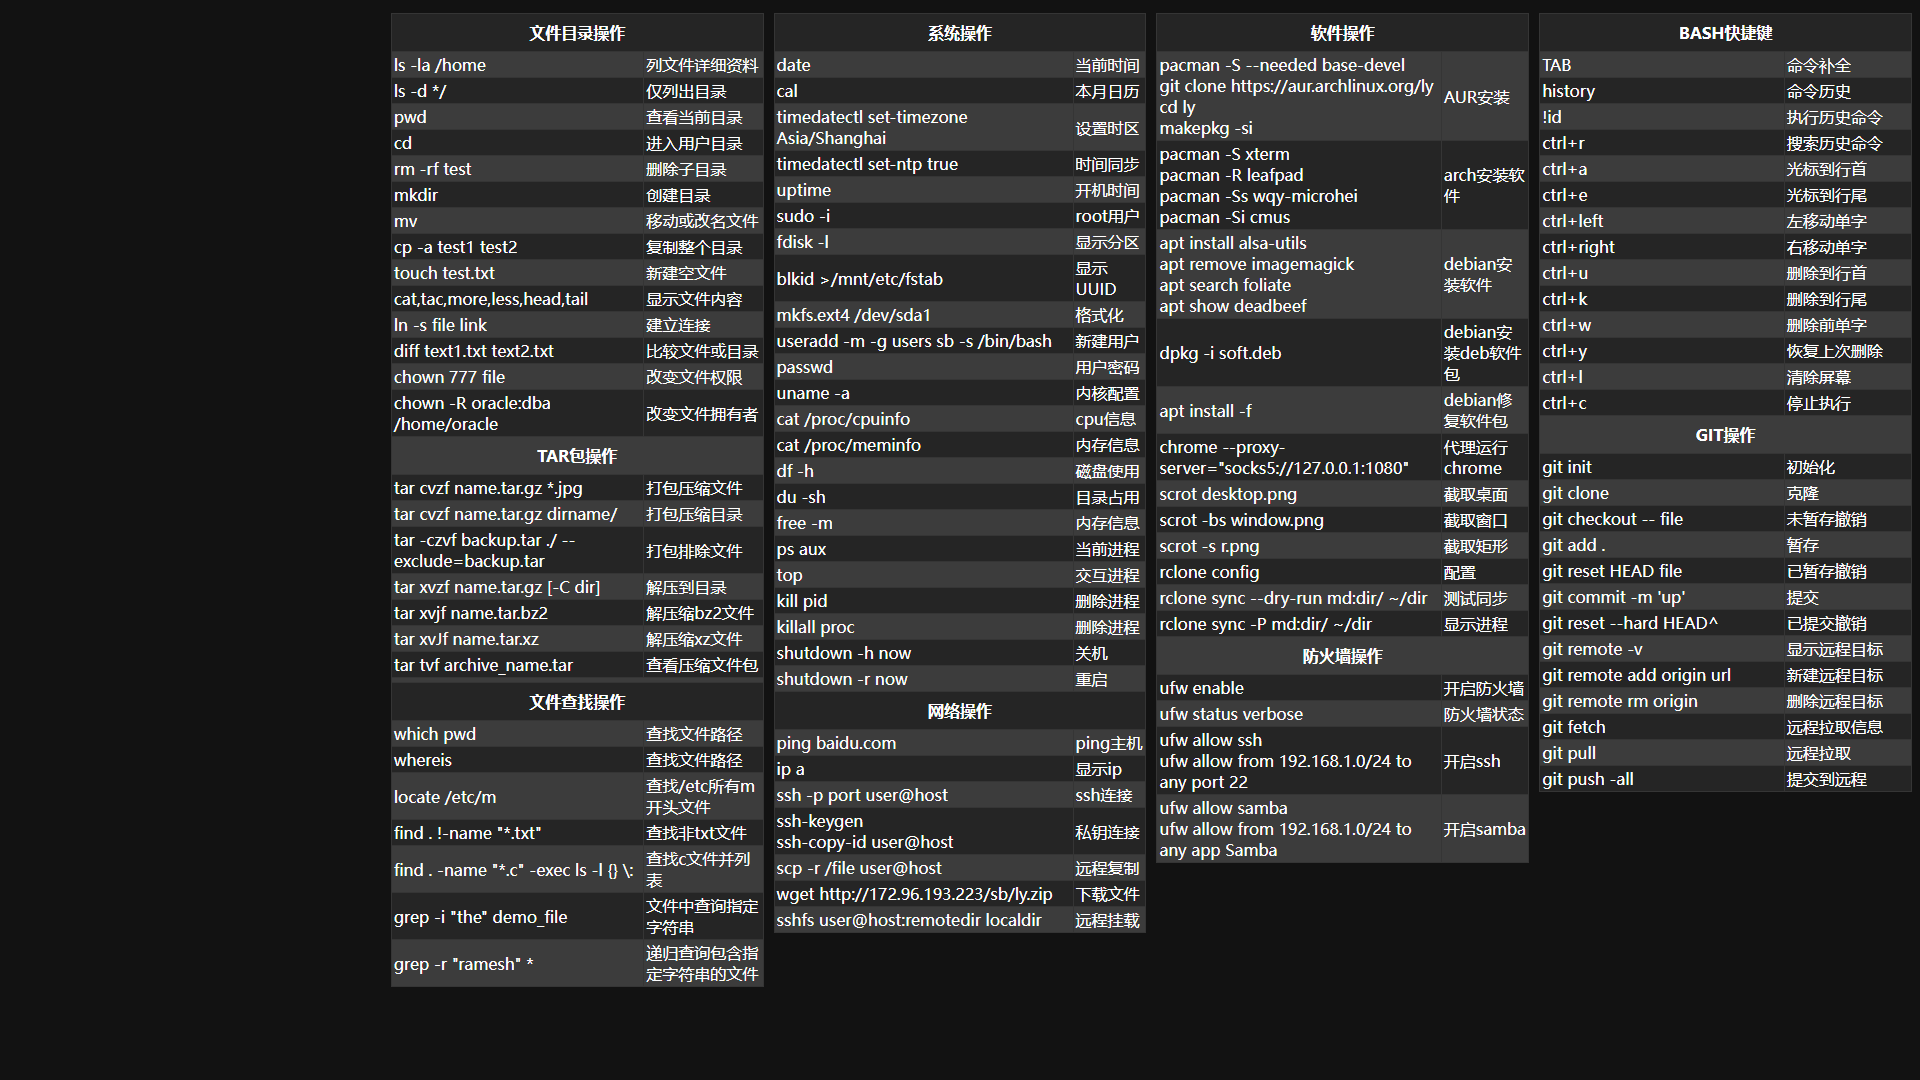
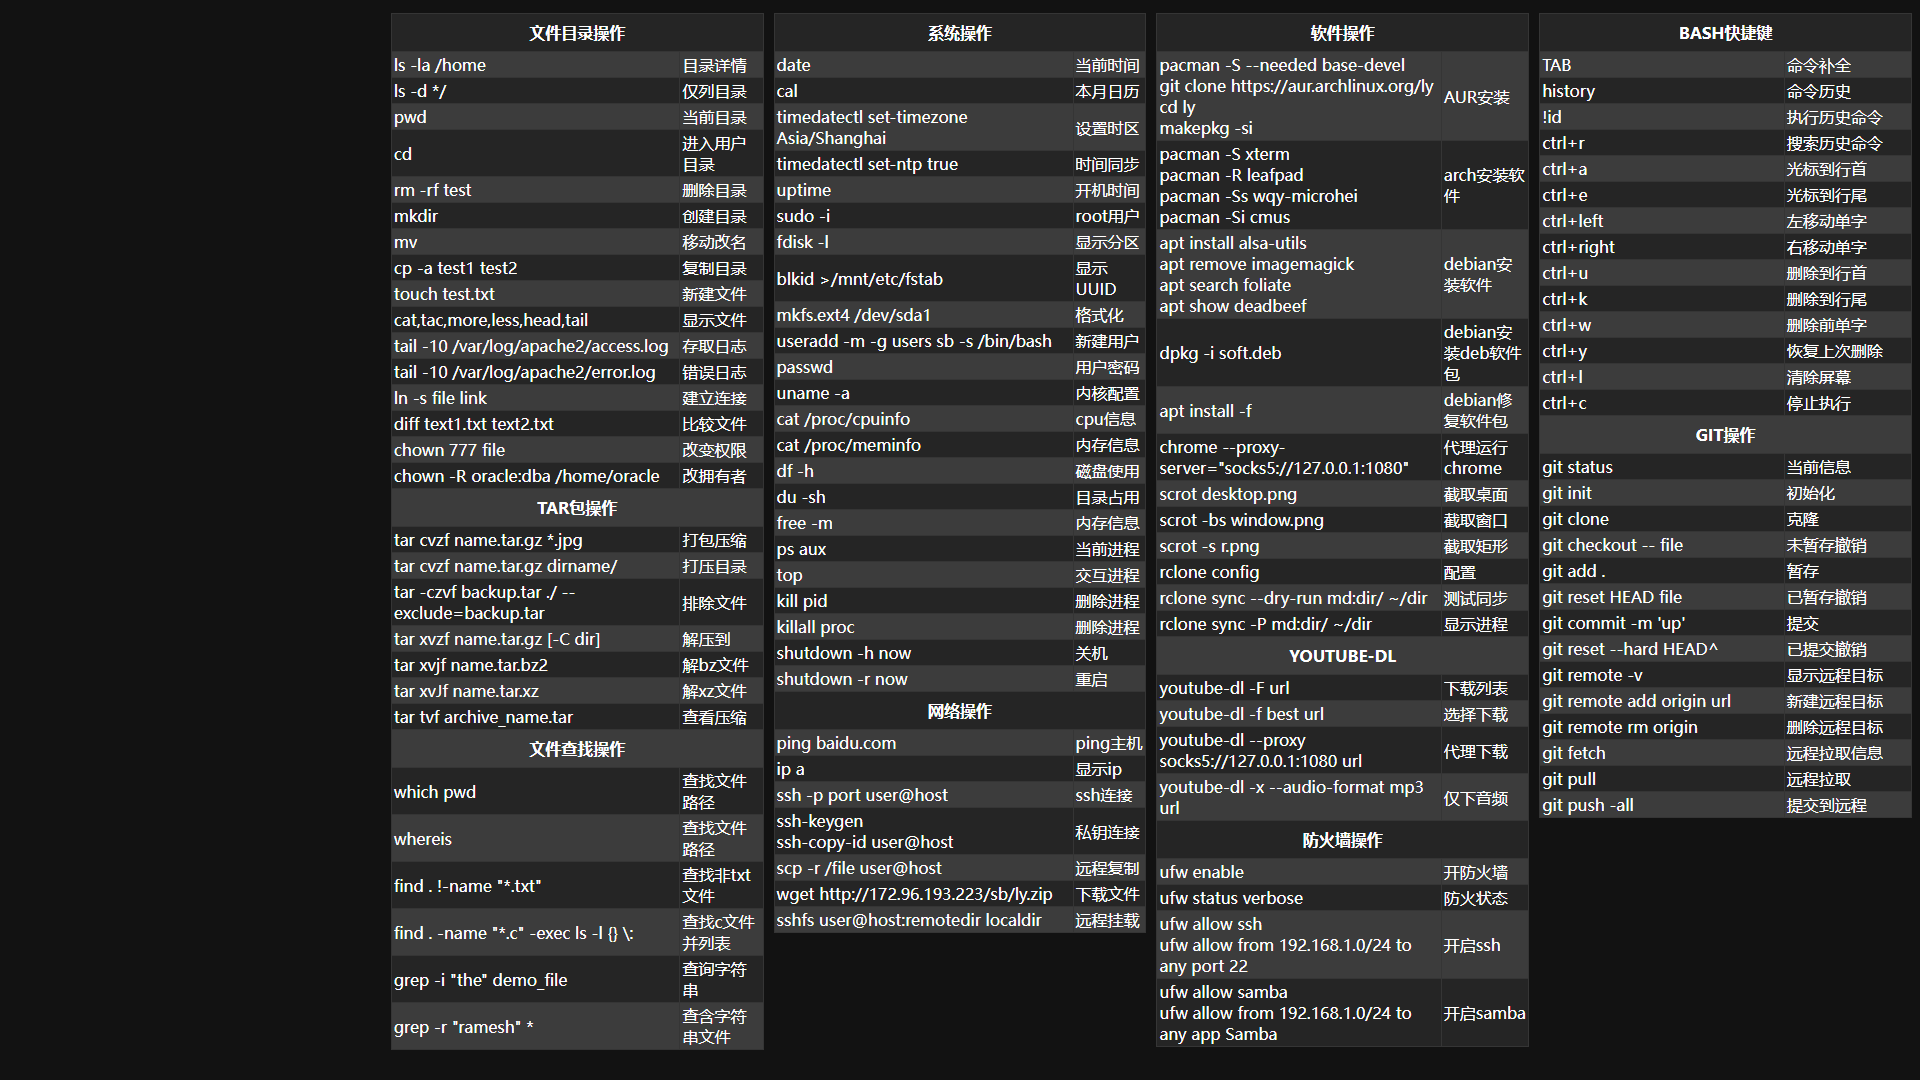
backup

diff --git a/cmd.html b/cmd.html
@@ -5,11 +5,12 @@
 	<meta charset="UTF-8">
 	<meta name="viewport" content="width=device-width, initial-scale=1.0">
 	<link rel="stylesheet" type="text/css" href="">
-	<title>Document</title>
+	<title>linux command</title>
 	<style type="text/css">
 * {
   box-sizing: border-box;
   font-size: 1em;
+  
 }
 
 .row {
@@ -17,7 +18,12 @@
   margin-left:-5px;
   margin-right:-5px;
 }
-  
+    @media (max-width: 768px) {
+      .row {
+        flex-direction: column;
+      }
+     }
+ 
 .column {
 	flex: 1;
   
@@ -74,15 +80,15 @@ tr:nth-child(even) {
 	</tr>
 	<tr>
 	<td>ls -la /home</td>
-	<td>列文件详细资料</td>
+	<td>目录详情</td>
 	</tr>
 	<tr >
 	<td>ls -d */</td>
-	<td>仅列出目录</td>
+	<td>仅列目录</td>
 	</tr>
 	<tr>
 	<td>pwd</td>
-	<td>查看当前目录</td>
+	<td>当前目录</td>
 	</tr>
 	<tr >
 	<td>cd</td>
@@ -90,7 +96,7 @@ tr:nth-child(even) {
 	</tr>
 	<tr>
 	<td>rm -rf test</td>
-	<td>删除子目录</td>
+	<td>删除目录</td>
 	</tr>
 	<tr >
 	<td>mkdir</td>
@@ -98,35 +104,45 @@ tr:nth-child(even) {
 	</tr>
 	<tr>
 	<td>mv</td>
-	<td>移动或改名文件</td>
+	<td>移动改名</td>
 	</tr>
 	<tr >
 	<td>cp -a test1 test2</td>
-	<td>复制整个目录</td>
+	<td>复制目录</td>
 	</tr>
 	<tr>
 	<td>touch test.txt</td>
-	<td>新建空文件</td>
+	<td>新建文件</td>
 	</tr>
 	<tr >
 	<td>cat,tac,more,less,head,tail</td>
-	<td>显示文件内容</td>
+	<td>显示文件</td>
 	</tr>
+
+	<tr >
+	<td>tail -10 /var/log/apache2/access.log</td>
+	<td>存取日志</td>
+	</tr>	
+	<tr >
+	<td>tail -10 /var/log/apache2/error.log</td>
+	<td>错误日志</td>
+	</tr>	
+
 	<tr >
 	<td>ln -s file link</td>
 	<td>建立连接</td>
 	</tr>
 	<tr >
 	<td>diff text1.txt text2.txt</td>
-	<td>比较文件或目录</td>
+	<td>比较文件</td>
 	</tr>
 	<tr >
 	<td>chown 777 file</td>
-	<td>改变文件权限</td>
+	<td>改变权限</td>
 	</tr>
 	<tr >
 	<td>chown -R oracle:dba /home/oracle</td>
-	<td>改变文件拥有者</td>
+	<td>改拥有者</td>
 	</tr>
 	<tr>
 	  <th colspan="2">TAR包操作</th>
@@ -134,34 +150,34 @@ tr:nth-child(even) {
 	</tr>
 	<tr >
 	<td> tar cvzf name.tar.gz *.jpg</td>
-	<td>打包压缩文件</td>
+	<td>打包压缩</td>
 	</tr>	
 	<tr >
 	<td> tar cvzf name.tar.gz dirname/</td>
-	<td>打包压缩目录</td>
+	<td>打压目录</td>
 	</tr>
 	<tr >
 	<td> tar -czvf backup.tar ./ --exclude=backup.tar</td>
-	<td>打包排除文件</td>
+	<td>排除文件</td>
 	</tr>
 
 	<tr >
 	<td>tar xvzf name.tar.gz [-C dir]</td>
-	<td>解压到目录</td>
+	<td>解压到</td>
 	</tr>
 	<tr >
 	<td>tar xvjf name.tar.bz2</td>
-	<td>解压缩bz2文件</td>
+	<td>解bz文件</td>
 	</tr>
 	<tr >
 	<td>tar xvJf name.tar.xz</td>
-	<td>解压缩xz文件</td>
+	<td>解xz文件</td>
 	</tr>
 	<tr >
 	<td>tar tvf archive_name.tar</td>
-	<td>查看压缩文件包</td>
+	<td>查看压缩</td>
 	</tr>
-	<tr><td colspan="2"></td></tr>
+
 	<tr>
 	  <th colspan="2">文件查找操作</th>
 	  
@@ -174,27 +190,21 @@ tr:nth-child(even) {
 	<td>whereis</td>
 	<td>查找文件路径</td>
 	</tr>
-
-	<tr >
-	<td>locate /etc/m</td>
-	<td>查找/etc所有m开头文件</td>
-	</tr>
 	<tr >
 	<td>find . !-name "*.txt"</td>
 	<td>查找非txt文件</td>
 	</tr>
-
 	<tr >
 	<td>find . -name "*.c" -exec ls -l {} \:</td>
 	<td>查找c文件并列表</td>
 	</tr>
 	<tr >
 	<td>grep -i "the" demo_file</td>
-	<td>文件中查询指定字符串</td>
+	<td>查询字符串</td>
 	</tr>
 	<tr >
 	<td>grep -r "ramesh" *</td>
-	<td>递归查询包含指定字符串的文件</td>
+	<td>查含字符串文件</td>
 	</tr>
 
 
@@ -408,16 +418,35 @@ tr:nth-child(even) {
 	<td>rclone sync -P md:dir/ ~/dir</td>
 	<td>显示进程</td>
 	</tr>	
-		<tr>
+	<tr>
+	  <th colspan="2">YOUTUBE-DL</th>
+	</tr>
+	<tr >
+	<td>youtube-dl -F url</td>
+	<td>下载列表</td>
+	</tr>
+	<tr >
+	<td>youtube-dl -f best url</td>
+	<td>选择下载</td>
+	</tr>
+	<tr >
+	<td>youtube-dl --proxy socks5://127.0.0.1:1080 url</td>
+	<td>代理下载</td>
+	</tr>
+	<tr >
+	<td>youtube-dl -x --audio-format mp3  url</td>
+	<td>仅下音频</td>
+	</tr>
+			<tr>
 	  <th colspan="2">防火墙操作</th>
 	</tr>
 	<tr >
 	<td>ufw enable</td>
-	<td>开启防火墙</td>
+	<td>开防火墙</td>
 	</tr>
 	<tr >
 	<td>ufw status verbose</td>
-	<td>防火墙状态</td>
+	<td>防火状态</td>
 	</tr>
 	<tr >
 	<td>ufw allow ssh<br>ufw allow from 192.168.1.0/24 to any port 22</td>
@@ -427,7 +456,6 @@ tr:nth-child(even) {
 	<td>ufw allow samba<br>ufw allow from 192.168.1.0/24 to any app Samba</td>
 	<td>开启samba</td>
 	</tr>
-
 	</table>
 	</div>
 
@@ -506,6 +534,13 @@ tr:nth-child(even) {
 	<tr>
 	  <th colspan="2">GIT操作</th>
 	</tr>
+
+	<tr >
+	<td>git status
+	</td>
+	<td>当前信息</td>
+	</tr>
+
 	<tr >
 	<td>git init
 	</td>
